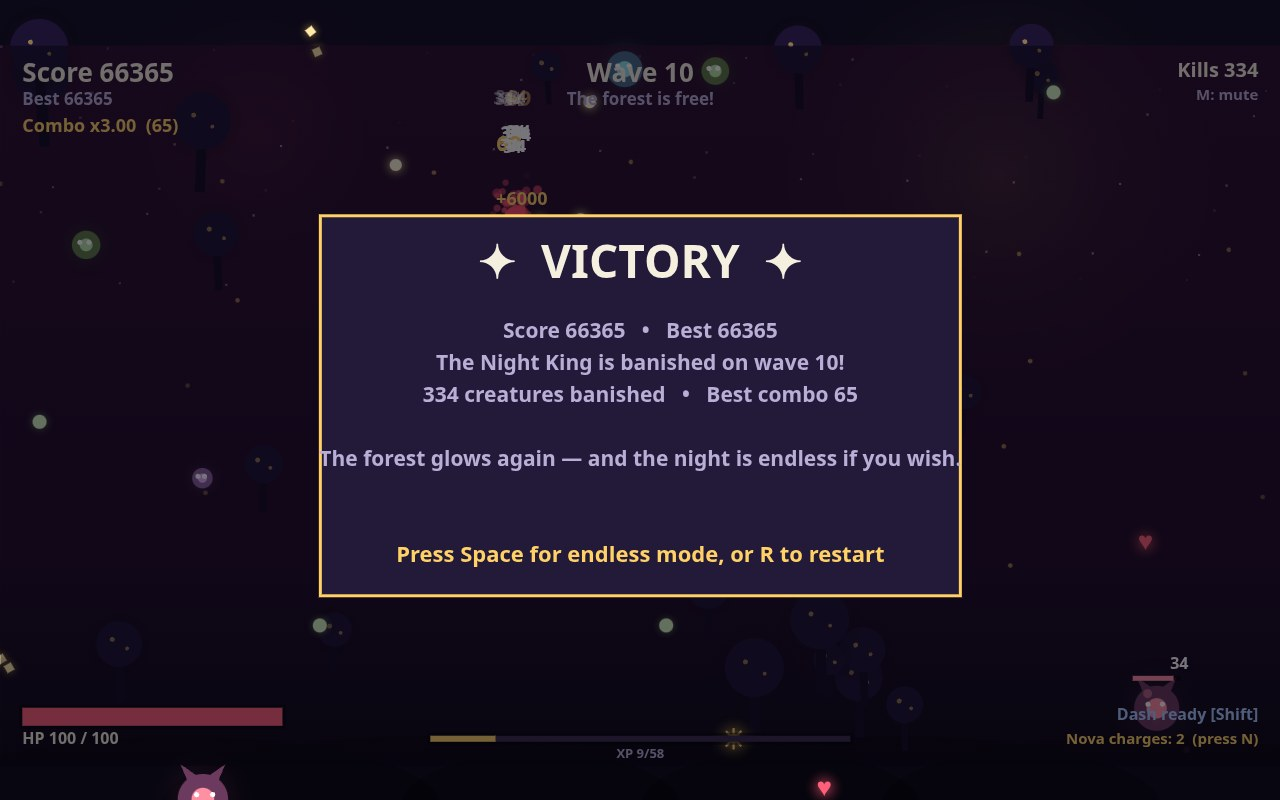
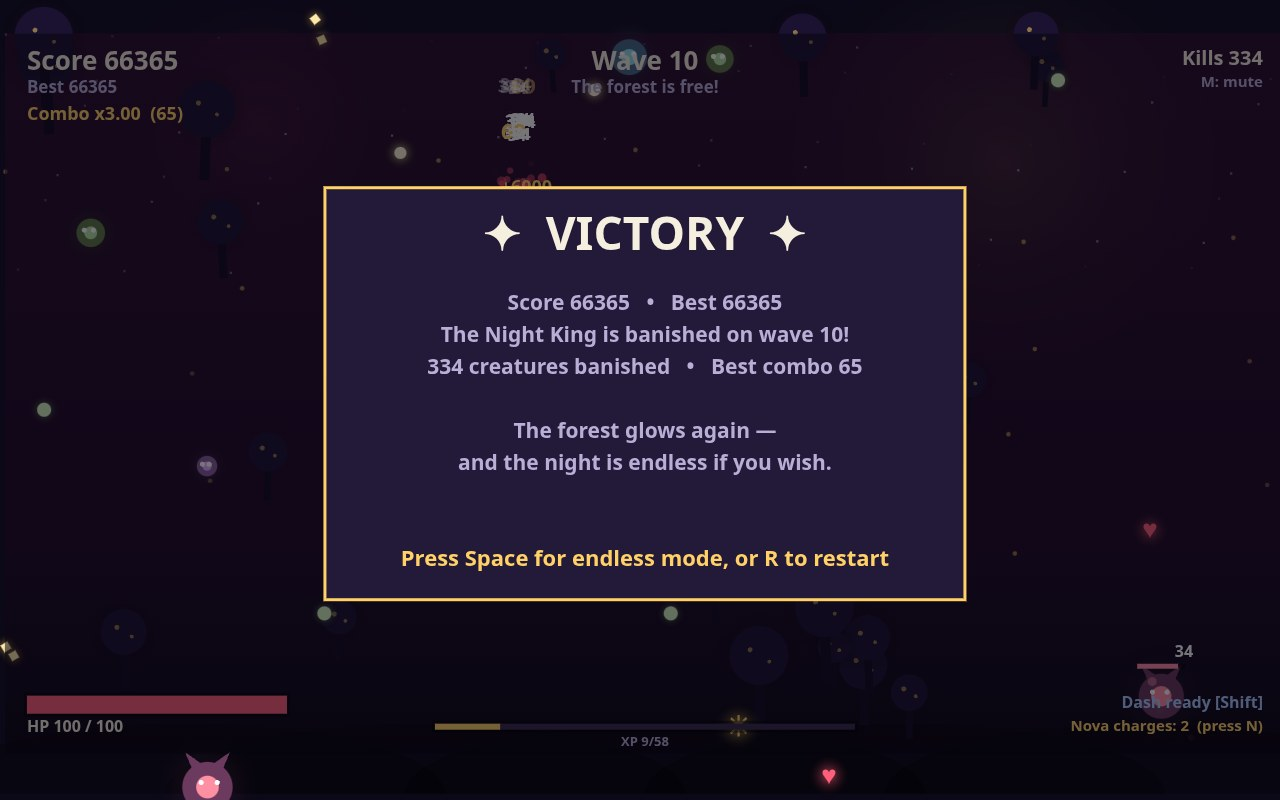
Starwisp: fix victory text overflow in end screenshot

diff --git a/game/src/render.js b/game/src/render.js
@@ -470,7 +470,8 @@ export function createRenderer(canvas) {
         `The Night King is banished on wave ${state.wave}!`,
         `${state.kills} creatures banished   •   Best combo ${state.bestCombo}`,
         '',
-        'The forest glows again — and the night is endless if you wish.',
+        'The forest glows again —',
+        'and the night is endless if you wish.',
       ];
       drawPanel('✦  VICTORY  ✦', lines, 'Press Space for endless mode, or R to restart', '#ffd166');
     }
